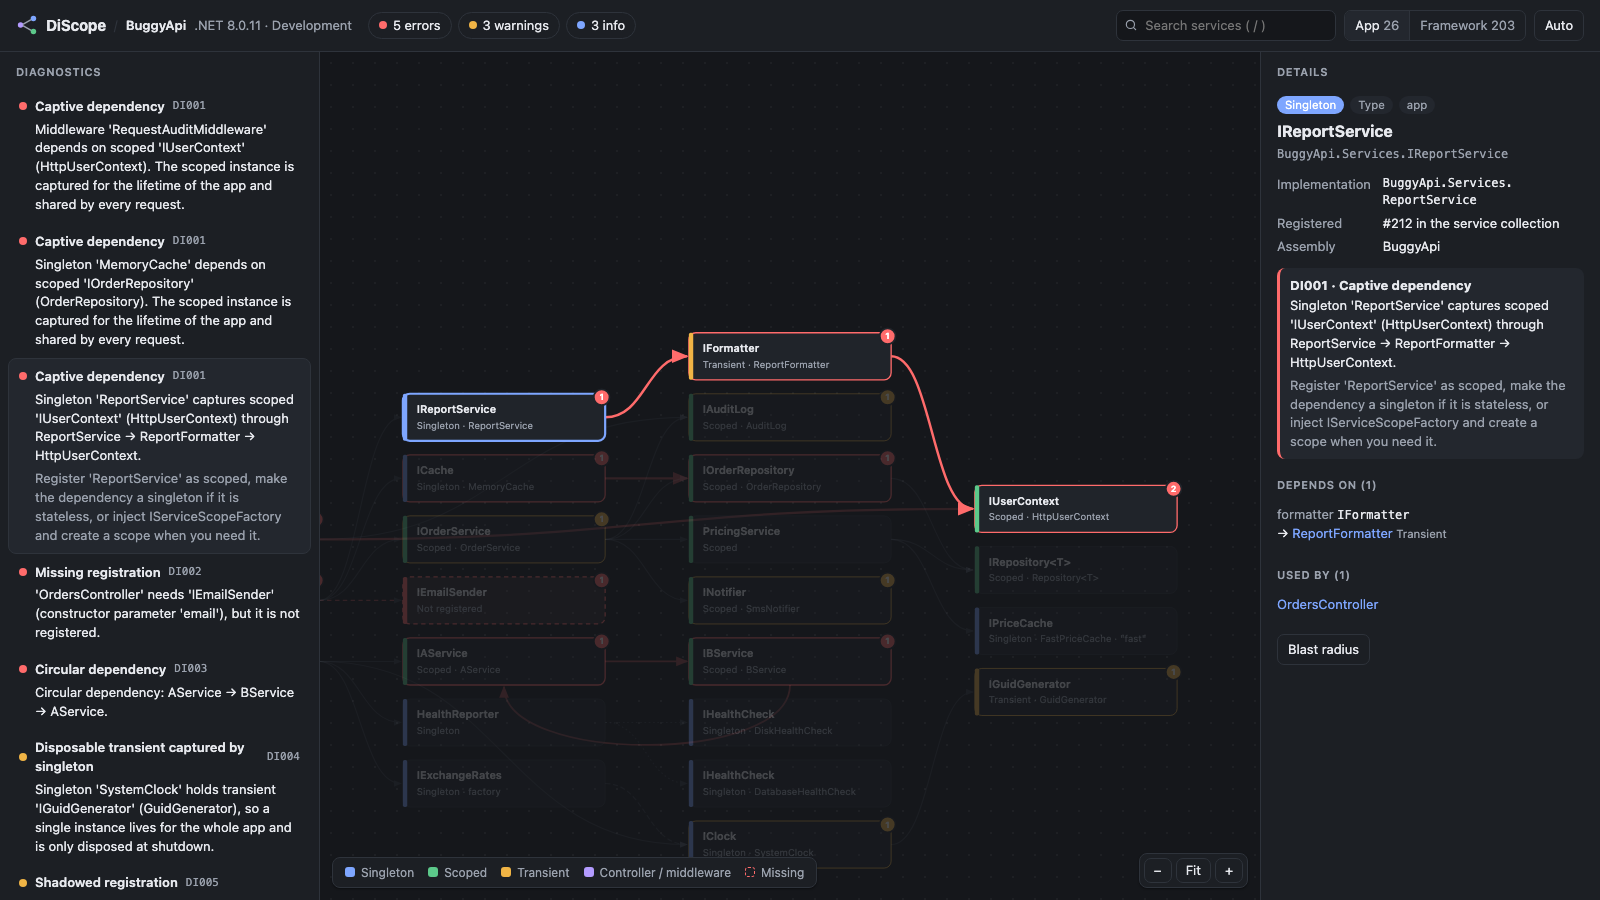
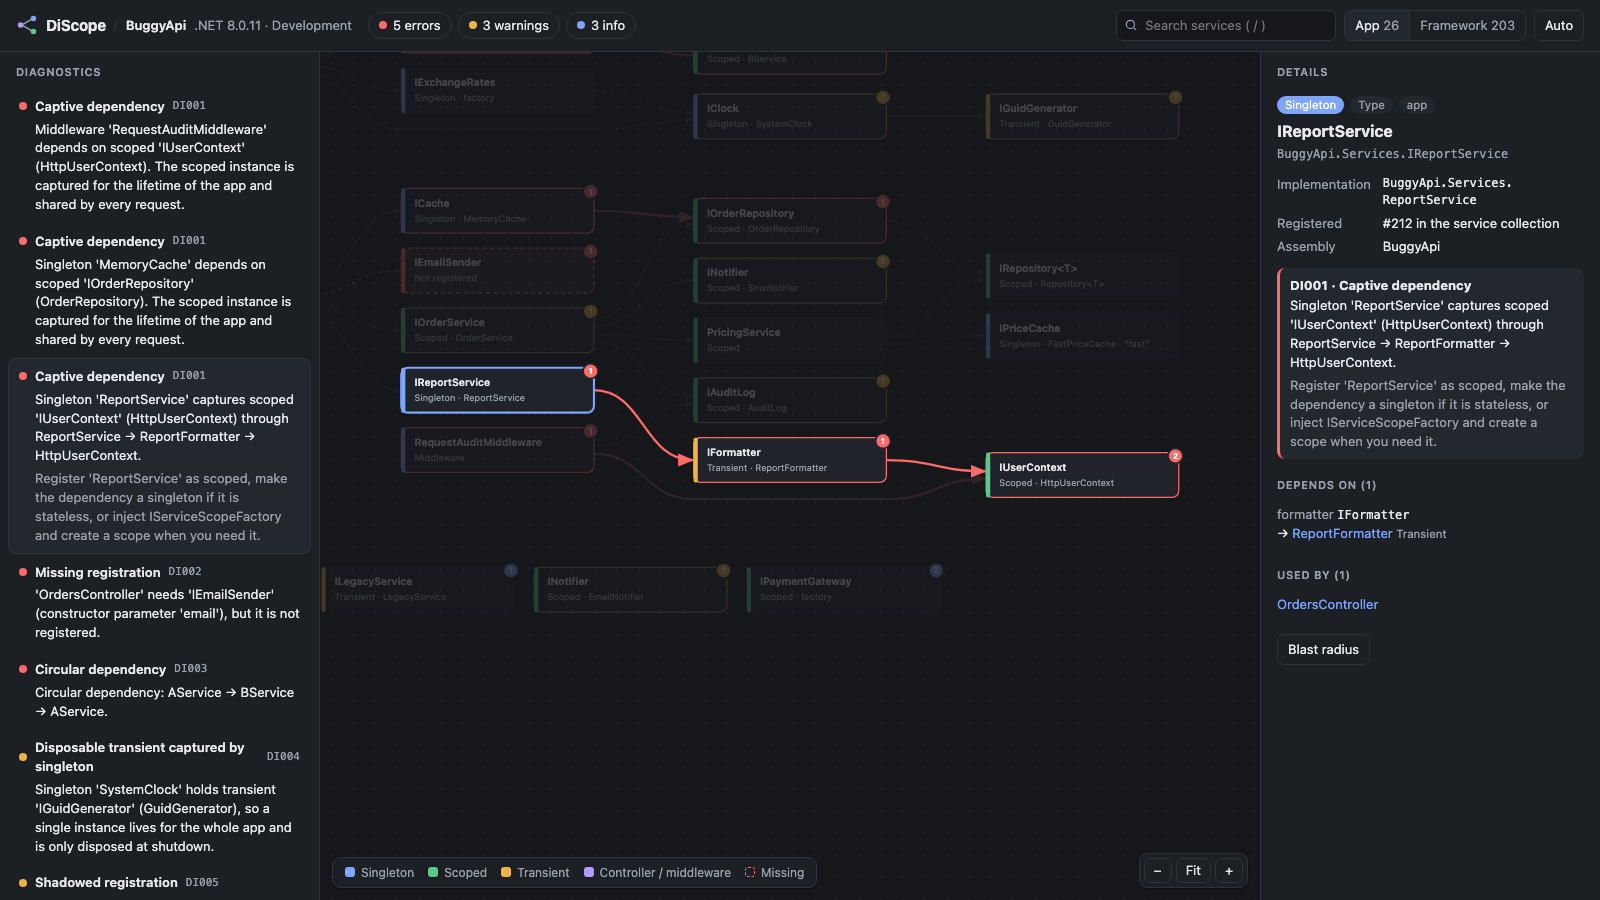
Fix false positives found on 67 real-world apps, refresh screenshots
- DI002: skip dependencies inferred from library factories and keyed
  lookups whose key is computed at runtime
- DI006: ignore duplicates added only by libraries
- DI007: skip services extending library types (validators, auth handlers)
- Merge identical findings across registrations
- Hint about environment variables when startup code throws before Build()

diff --git a/src/DiScope.Core/Analysis/DiagnosticRules.cs b/src/DiScope.Core/Analysis/DiagnosticRules.cs
@@ -20,12 +20,26 @@ public static class DiagnosticRules
         OpaqueFactories(index, diagnostics);
         NotConstructible(index, diagnostics);
 
-        return diagnostics
+        return Merge(diagnostics)
             .OrderBy(d => Severities.Rank(d.Severity))
             .ThenBy(d => d.Id, StringComparer.Ordinal)
             .ThenBy(d => d.Message, StringComparer.Ordinal)
             .ToList();
     }
+
+    /// <summary>
+    /// Several registrations of the same type can produce the very same finding (e.g. a library registering a
+    /// lifecycle participant once per provider). Report it once, highlighting every node.
+    /// </summary>
+    private static IEnumerable<Diagnostic> Merge(List<Diagnostic> diagnostics) =>
+        diagnostics
+            .GroupBy(d => (d.Id, d.Severity, d.Message))
+            .Select(g =>
+            {
+                var first = g.First();
+                first.Nodes = g.SelectMany(d => d.Nodes).Distinct().ToList();
+                return first;
+            });
 
     /// <summary>Edges that are part of constructing the consumer (not per-request Invoke parameters).</summary>
     private static bool IsConstructionEdge(GraphIndex.Edge edge) => edge.Dependency.Site != Sites.Invoke;
@@ -113,6 +127,10 @@ public static class DiagnosticRules
         foreach (var node in index.Nodes.Where(GraphIndex.IsUserCode))
         foreach (var dep in node.Dependencies.Where(d => d.Resolution == Resolutions.Missing))
         {
+            // Factory dependencies are read from every branch of the factory's IL. Inside a library, a branch the
+            // app never takes (e.g. Serilog's "logger was passed in" path) would look like a missing registration.
+            if (dep.Site == Sites.Factory && node.Origin != Origins.App) continue;
+
             var keyText = dep.Key is null ? "" : $" with key \"{dep.Key}\"";
             var where = dep.Site switch
             {
@@ -350,6 +368,8 @@ public static class DiagnosticRules
         foreach (var group in RegistrationGroups(index))
         foreach (var duplicates in group.Where(n => n.Kind == NodeKinds.Type).GroupBy(n => (Identity(n), n.Lifetime)).Where(g => g.Count() > 1))
         {
+            // Libraries often add the same IConfigureOptions/IPostConfigureOptions per provider: harmless, and not yours to fix.
+            if (!duplicates.Any(n => n.Origin == Origins.App)) continue;
             var first = duplicates.First();
             diagnostics.Add(new Diagnostic
             {
@@ -374,6 +394,8 @@ public static class DiagnosticRules
             // Only the app's own contracts: framework contracts (IHostedService, IStartupFilter...) are consumed by the framework.
             if (!NodeKinds.IsRegistration(node.Kind) || node.Origin != Origins.App || node.ServiceOrigin != Origins.App) continue;
             if (index.Incoming(node).Count > 0) continue;
+            // Validators, authentication handlers, notification handlers...: the library resolves them dynamically.
+            if (node.ExtendsExternalType) continue;
             // Services registered more than once are reported by DI005/DI006 instead.
             if (index.Nodes.Any(n => n.Id != node.Id && NodeKinds.IsRegistration(n.Kind) && n.ServiceType == node.ServiceType && n.Key == node.Key)) continue;
 

diff --git a/src/DiScope.Agent/GraphBuilder.cs b/src/DiScope.Agent/GraphBuilder.cs
@@ -151,9 +151,31 @@ internal sealed class GraphBuilder
         }
 
         var main = concrete ?? r.ServiceType;
+        node.ExtendsExternalType = ExtendsExternalType(r.ServiceType);
         node.Assembly = main.Assembly.GetName().Name;
         node.SourceType = TypeNames.SourceName(main);
         return node;
+    }
+
+    /// <summary>Base classes and interfaces from outside the app, ignoring System.* basics (IDisposable, IEquatable...).</summary>
+    private bool ExtendsExternalType(Type type)
+    {
+        bool External(Type t)
+        {
+            if (t.IsGenericType) t = t.GetGenericTypeDefinition();
+            return Origin(t.Assembly) != Origins.App && !(t.Namespace ?? "").StartsWith("System", StringComparison.Ordinal);
+        }
+
+        try
+        {
+            for (var b = type.BaseType; b is not null && b != typeof(object) && b != typeof(ValueType); b = b.BaseType)
+                if (External(b)) return true;
+            return type.GetInterfaces().Any(External);
+        }
+        catch
+        {
+            return false;
+        }
     }
 
     private static bool IsDisposable(Type type) =>
@@ -335,14 +357,18 @@ internal sealed class GraphBuilder
         var typeArgs = method.DeclaringType is { IsGenericType: true } dt ? dt.GetGenericArguments() : null;
         var methodArgs = method.IsGenericMethod ? method.GetGenericArguments() : null;
 
-        string? lastString = null;
+        // A service key is only known when it's a string literal pushed right before the call.
+        string? keyLiteral = null;
         Type? lastToken = null;
 
-        foreach (var instruction in ILReader.ReadTokenInstructions(method))
+        foreach (var instruction in ILReader.ReadInstructions(method))
         {
+            var previousKey = keyLiteral;
+            keyLiteral = null;
+
             if (instruction.OpCode == OpCodes.Ldstr)
             {
-                lastString = SafeResolve(() => module.ResolveString(instruction.Token));
+                keyLiteral = SafeResolve(() => module.ResolveString(instruction.Token));
                 continue;
             }
 
@@ -365,7 +391,15 @@ internal sealed class GraphBuilder
                                || called.Name == "GetService";
                 var requested = many ? typeof(IEnumerable<>).MakeGenericType(resolved) : resolved;
                 var label = called.IsGenericMethod ? $"{called.Name}<{TypeNames.Format(resolved)}>()" : called.Name + "(typeof)";
-                deps.Add(Resolve(label, requested, keyed, keyed ? lastString : null, optional, Sites.Factory));
+                lastToken = null;
+                if (keyed && previousKey is null)
+                {
+                    // Key computed at runtime: we can't tell which registration it picks.
+                    deps.Add(new Dependency { Name = label, Type = TypeNames.Format(requested), Resolution = Resolutions.Unknown, Site = Sites.Factory });
+                    continue;
+                }
+
+                deps.Add(Resolve(label, requested, keyed, keyed ? previousKey : null, optional, Sites.Factory));
             }
             else if (called.Name == "CreateInstance" && called.IsGenericMethod
                      && called.DeclaringType?.FullName == DiNamespace + "ActivatorUtilities")

diff --git a/tests/DiScope.Core.Tests/DiagnosticRulesTests.cs b/tests/DiScope.Core.Tests/DiagnosticRulesTests.cs
@@ -105,6 +105,19 @@ public class DiagnosticRulesTests
     }
 
     [Fact]
+    public void Missing_dependencies_inferred_from_library_factories_are_not_reported()
+    {
+        var graph = new TestGraph()
+            .Add("DiagnosticContext", null, Singleton, NodeKinds.Factory, origin: Origins.Package)
+            .DependsOn("RegisteredLogger", site: Sites.Factory)
+            .Add("AppFactory", null, Singleton, NodeKinds.Factory)
+            .DependsOn("IReallyMissing", site: Sites.Factory);
+
+        var d = Single(Run(graph), RuleIds.Missing);
+        Assert.Contains("IReallyMissing", d.Message);
+    }
+
+    [Fact]
     public void Two_services_depending_on_each_other_are_a_cycle()
     {
         var graph = new TestGraph()
@@ -215,12 +228,43 @@ public class DiagnosticRulesTests
     }
 
     [Fact]
+    public void Duplicates_added_by_a_library_are_ignored()
+    {
+        var graph = new TestGraph()
+            .Add("IPostConfigureOptions", "Configurator", Transient, origin: Origins.Package)
+            .Add("IPostConfigureOptions", "Configurator", Transient, origin: Origins.Package);
+
+        Assert.DoesNotContain(Run(graph), d => d.Id == RuleIds.Duplicate);
+    }
+
+    [Fact]
+    public void Identical_findings_on_several_registrations_are_merged()
+    {
+        var graph = new TestGraph()
+            .Add("ILifecycleParticipant", "StorageParticipant", Singleton, origin: Origins.Package).DependsOn("IGrainStorage")
+            .Add("ILifecycleParticipant", "StorageParticipant", Singleton, origin: Origins.Package).DependsOn("IGrainStorage");
+
+        var d = Single(Run(graph), RuleIds.Missing);
+        Assert.Equal(new[] { "s0", "s1" }, d.Nodes);
+    }
+
+    [Fact]
     public void App_service_nobody_depends_on_is_possibly_unused()
     {
         var graph = new TestGraph().Add("ILegacy", "Legacy", Transient);
 
         var d = Single(Run(graph), RuleIds.Unused);
         Assert.Equal(Severities.Info, d.Severity);
+    }
+
+    [Fact]
+    public void Services_extending_library_types_are_not_unused()
+    {
+        // e.g. FluentValidation registering each validator as its own type.
+        var graph = new TestGraph().Add("CreateOrderValidator", "CreateOrderValidator", Scoped);
+        graph.Graph.Services[0].ExtendsExternalType = true;
+
+        Assert.Empty(Run(graph));
     }
 
     [Fact]

diff --git a/src/DiScope.Agent/ILReader.cs b/src/DiScope.Agent/ILReader.cs
@@ -25,8 +25,8 @@ internal static class ILReader
 
     internal readonly record struct Instruction(OpCode OpCode, int Token);
 
-    /// <summary>Yields instructions that carry a metadata token or string (calls, ldtoken, ldstr, newobj).</summary>
-    public static IEnumerable<Instruction> ReadTokenInstructions(MethodInfo method)
+    /// <summary>Yields every instruction; <see cref="Instruction.Token"/> is set for those with a metadata token or string.</summary>
+    public static IEnumerable<Instruction> ReadInstructions(MethodInfo method)
     {
         byte[]? il;
         try { il = method.GetMethodBody()?.GetILAsByteArray(); }
@@ -48,6 +48,7 @@ internal static class ILReader
                 op = OneByte[b];
             }
 
+            var operandToken = 0;
             switch (op.OperandType)
             {
                 case OperandType.InlineNone:
@@ -75,14 +76,15 @@ internal static class ILReader
                 case OperandType.InlineString:
                 case OperandType.InlineField:
                     if (pos + 4 > il.Length) yield break;
-                    var token = BitConverter.ToInt32(il, pos);
+                    operandToken = BitConverter.ToInt32(il, pos);
                     pos += 4;
-                    yield return new Instruction(op, token);
                     break;
                 default: // InlineI, InlineBrTarget, InlineSig, ShortInlineR
                     pos += 4;
                     break;
             }
+
+            yield return new Instruction(op, operandToken);
         }
     }
 }

diff --git a/src/DiScope.Cli/Analyzer.cs b/src/DiScope.Cli/Analyzer.cs
@@ -157,7 +157,14 @@ internal sealed class Analyzer
             // The file is written atomically before the host is stopped. Apps that catch the stop and call
             // Environment.Exit(n) themselves end with their own exit code, so the file is what counts.
             if (!File.Exists(output))
-                throw new CliException($"Could not capture the service collection (exit code {result.ExitCode}):\n{Tail(result.StdErr.Length > 0 ? result.StdErr : result.StdOut)}");
+            {
+                var details = Tail(result.StdErr.Length > 0 ? result.StdErr : result.StdOut);
+                var hint = details.Contains("failed before its host was built", StringComparison.Ordinal)
+                    ? "\n  Your startup code threw before builder.Build(). If it needs environment variables or secrets, " +
+                      "set them when running DiScope (e.g. MY_KEY=value discope ...). DiScope sets DISCOPE=1 so you can skip that code."
+                    : "";
+                throw new CliException($"Could not capture the service collection (exit code {result.ExitCode}):\n{details}{hint}");
+            }
 
             return Report.LoadRawGraph(output);
         }

diff --git a/src/Shared/GraphModel.cs b/src/Shared/GraphModel.cs
@@ -59,6 +59,12 @@ sealed class ServiceNode
 
     public string? Assembly { get; set; }
 
+    /// <summary>
+    /// The service derives from or implements a library/framework type (AbstractValidator, AuthenticationHandler,
+    /// INotificationHandler...), so the library may resolve it dynamically, out of DiScope's sight.
+    /// </summary>
+    public bool ExtendsExternalType { get; set; }
+
     /// <summary>Position in the IServiceCollection, or -1 for activated roots such as controllers.</summary>
     public int RegistrationIndex { get; set; } = -1;
 

diff --git a/CHANGELOG.md b/CHANGELOG.md
@@ -5,6 +5,24 @@ All notable changes to this project are documented here. The format is based on
 
 ## [Unreleased]
 
+### Changed
+
+- Viewer: edges are routed through reserved lanes and never pass under services; cycles are drawn as reversed edges.
+- Tested against 67 real-world ASP.NET Core, Worker and Orleans apps (20,000+ services); false positives fixed:
+  - DI005 no longer flags intentional replacements of framework defaults (e.g. `AuthenticationStateProvider`),
+    and now also reports app registrations that replace each other when nothing injects them.
+  - DI006 ignores duplicates added by libraries (e.g. options configurators registered per provider).
+  - DI002 ignores dependencies inferred from library factories (branches the app never takes) and keyed lookups
+    whose key is computed at runtime.
+  - DI007 ignores services that extend library types (validators, authentication handlers...) and services
+    registered several times.
+  - Identical findings on several registrations are merged into one.
+- Startup code that throws before `builder.Build()` gets a hint about environment variables and `DISCOPE=1`.
+
+### Fixed
+
+- Apps that catch the host stop and call `Environment.Exit` were reported as failures.
+
 ## [0.1.0] - 2026-10-10
 
 ### Added
